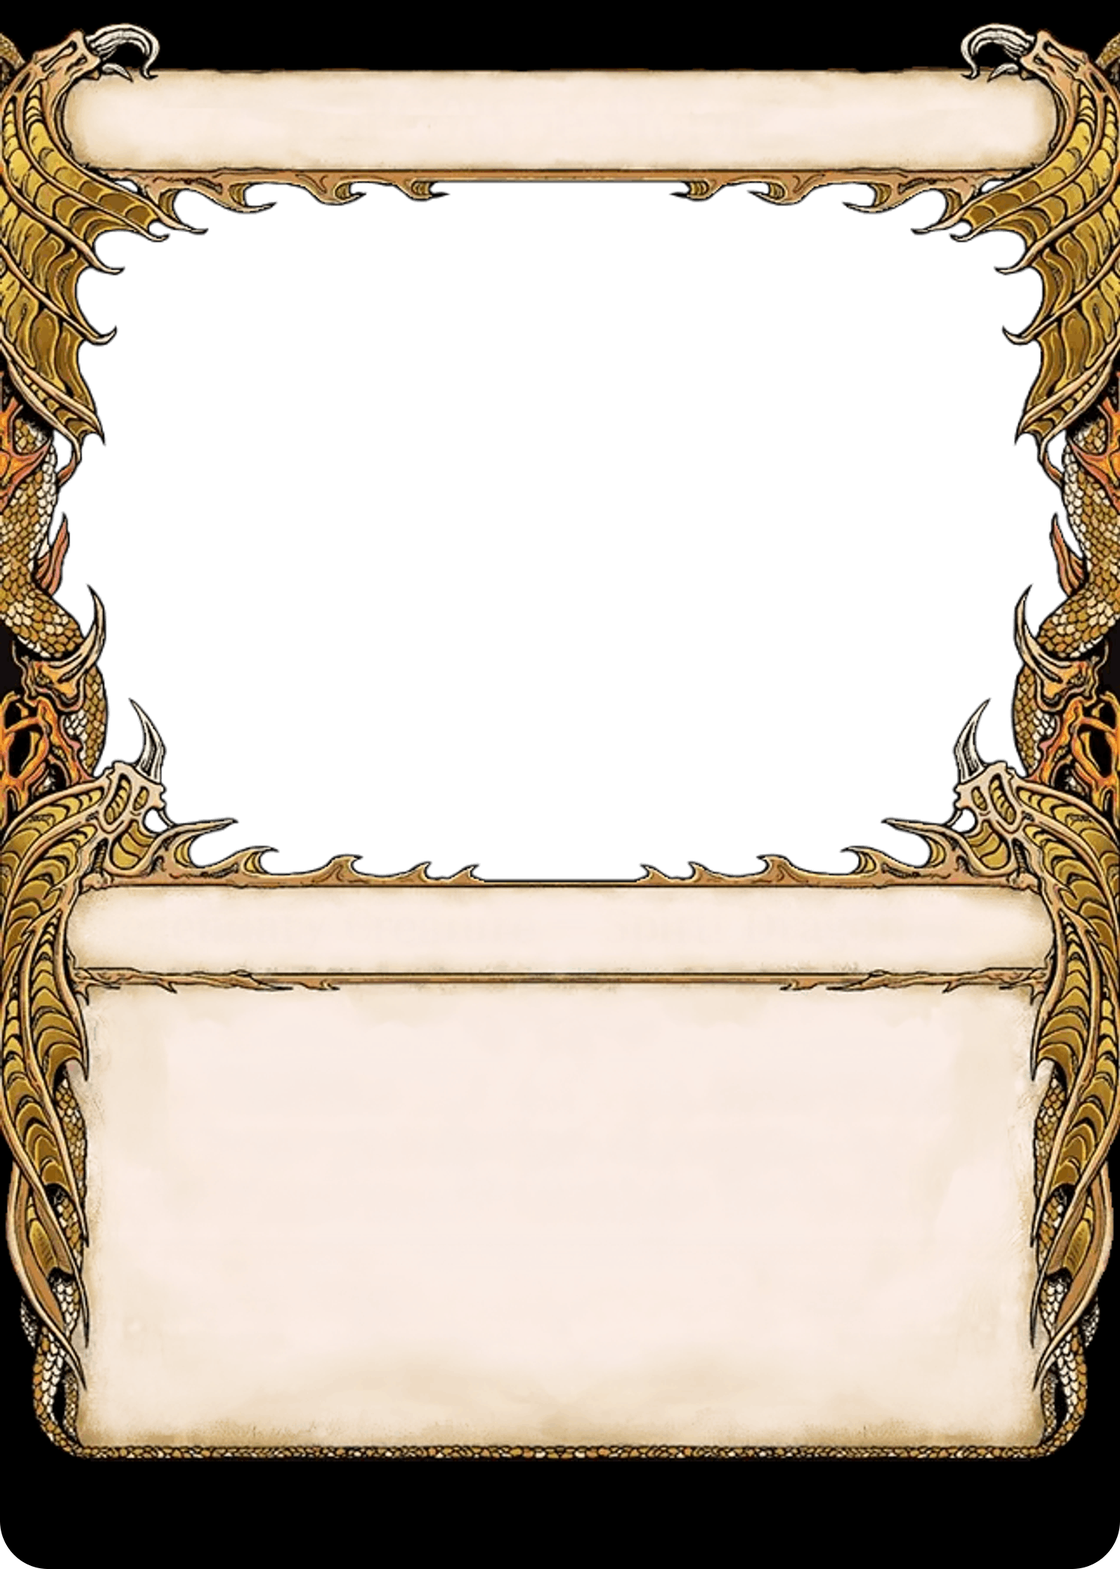
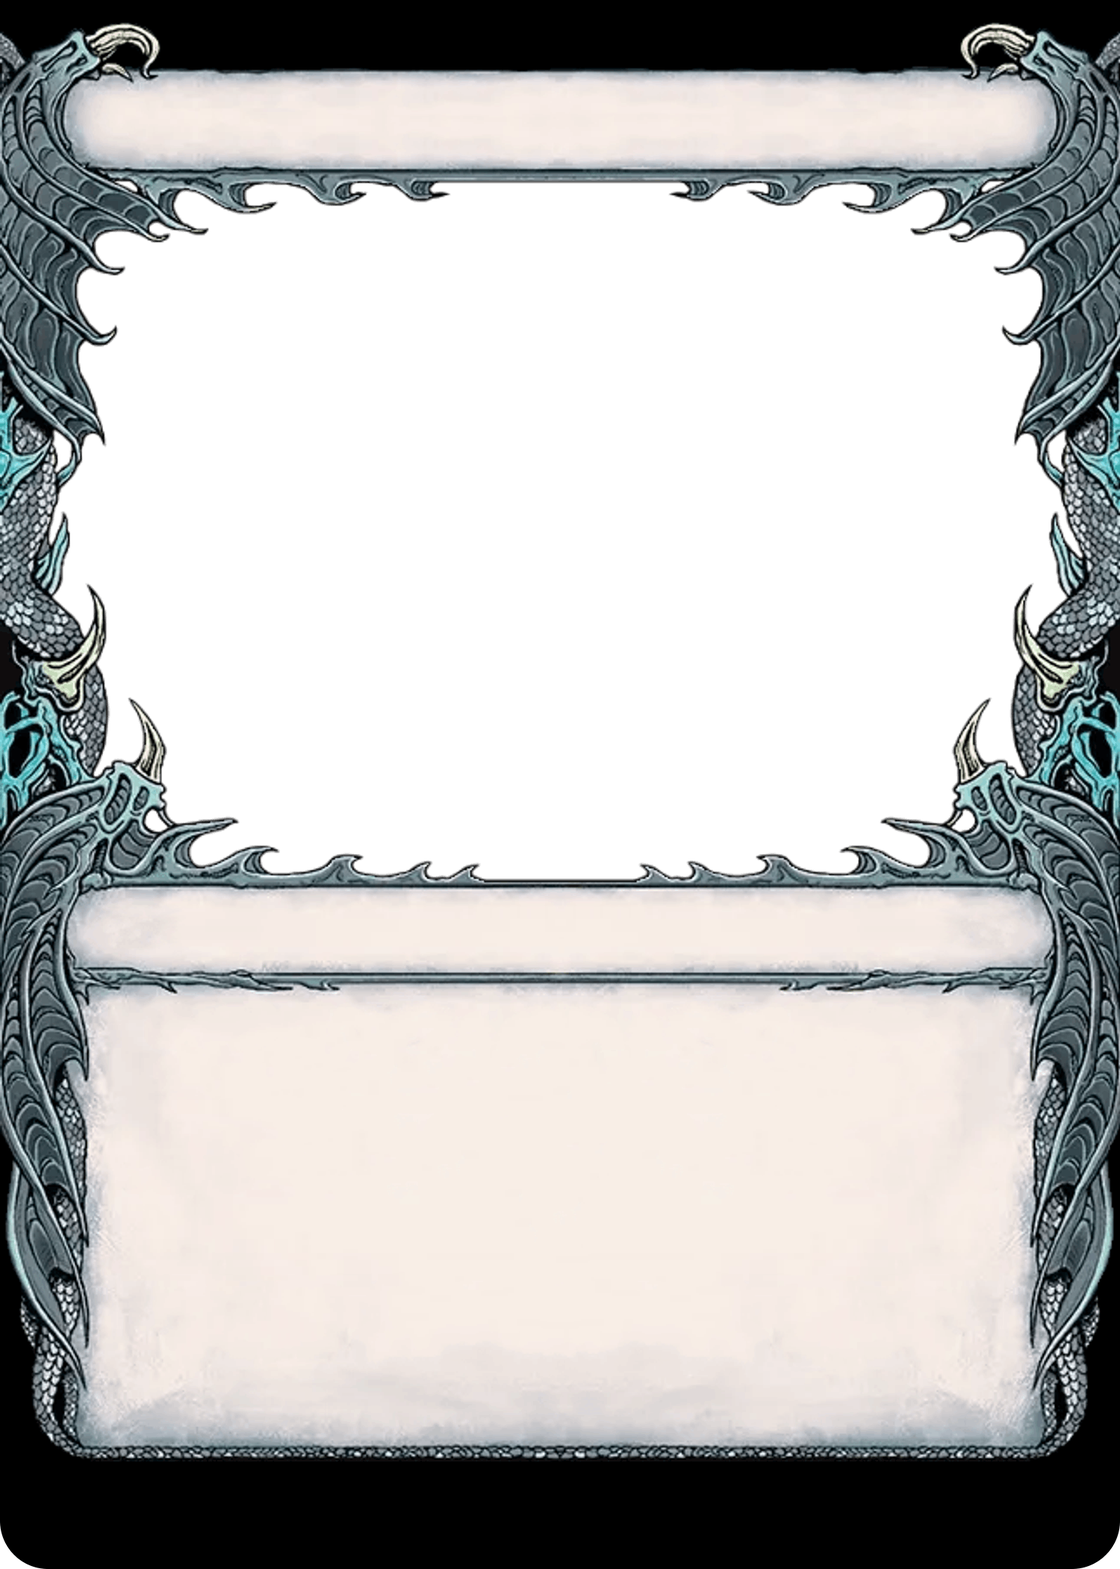
fix(frames): the draconic's colourless frame is MSE's steel drawing, plate and rim alike (layout v68)
Every colourless printing of TDM #292-326 is an artifact (#323-325, within
3 levels of MSE's steel `a`), so `c` itself is built from it — frame,
plate and stamp rim — and the `a` master and artifactMasterKeys go. TDM
#326, the gold land, is no `c` reference: it taps for any colour, and the
importer's land rule (produced_mana) reads it as the gold `m` card it is
(the reference check refuses it as "a multicolor card" on the `c` row). A
colourless non-artifact card, which no print shows, now matches its plate.

Changed region(s): [[0.0, 0.0, 1.0, 0.9286]]

diff --git a/lib/cards/template-layout.ts b/lib/cards/template-layout.ts
@@ -4700,12 +4700,11 @@ const TARKIRDRACONIC: FrameProfile = {
   label: "Draconic",
   ...CC_M15_COST,
   artSlot: TARKIRDRACONIC_ART_SLOT,
-  // A colourless ARTIFACT paints MSE's steel artifact drawing (`a`: TDM
-  // #323–325, within 3 levels of print); any other colourless card the gold
-  // one (`c`, built from MSE's `m`: the run's one colourless land, #326,
-  // prints gold) — scripts/build-showcase-frames.mjs `sourceKeys`. MSE's own
-  // brown `c` is no print's (53 levels off the steel).
-  artifactMasterKeys: { c: "a" },
+  // `c` is MSE's STEEL artifact drawing, not its brown colourless one: every
+  // colourless printing of the run is an artifact (TDM #323–325, within 3
+  // levels of print) — scripts/build-showcase-frames.mjs `sourceKeys`, the
+  // plate and the stamp rim with it. (#326, a land that taps for any colour,
+  // is a gold `m` card by the importer's land rule.)
   // The type line 2 px below the CC M15 baseline: MSE's type bar sits 2 px
   // lower than the Card Conjurer M15 master's (its outlines at 1185 / 1303
   // px — print's own, TDM #292–326 — against 1184 / 1301), and print sets
@@ -6115,9 +6114,7 @@ export const TARKIRDRACONIC_HOLO_STAMP: FrameOverlaySlot = {
   anatomy: "holoStamp",
   rect: { leftPct: (631 / 1500) * 100, topPct: (1895 / 2100) * 100, widthPct: (239 / 1500) * 100, heightPct: (65 / 2100) * 100 },
   assetPathTemplate: "/frames/tarkirdraconicholostamp/{key}.png",
-  // …and `a`, the steel artifact master's rim (a colourless artifact's
-  // overlay is keyed by its master); `c` is the gold rim (#326).
-  keys: ["w", "u", "b", "r", "g", "m", "c", "a"],
+  keys: ["w", "u", "b", "r", "g", "m", "c"],
   stamp: { shape: "oval", oval: TARKIRDRACONIC_HOLO_STAMP_OVAL, keepOut: TARKIRDRACONIC_HOLO_STAMP_KEEP_OUT },
 };
 

diff --git a/tests/unit/components/alpha-artifact-master.test.tsx b/tests/unit/components/alpha-artifact-master.test.tsx
@@ -79,9 +79,7 @@ describe("frameMasterKey — the one master rule", () => {
     // …and the Lord of the Rings scroll (TODO 4.11, layout v62): its `c` is
     // the pack's brown land frame, a colourless ARTIFACT paints its blue `a`.
     // …and the ring (layout v65), the same split.
-    // …and the Tarkir draconic (layout v68): its `c` is MSE's gold drawing
-    // (the run's colourless land), a colourless ARTIFACT paints MSE's steel `a`.
-    const DRESSED = new Set(["agclassic", "extendedart", "lotrscroll", "lotr", "tarkirdraconic", "m15dfcfront", "m15dfcback", "m15dfcbackleft", "m15mdfcfront", "m15mdfcback", "m15borderlessdfcfront", "m15borderlessdfcback", "m15borderlessmdfcfront", "m15borderlessmdfcback"]);
+    const DRESSED = new Set(["agclassic", "extendedart", "lotrscroll", "lotr", "m15dfcfront", "m15dfcback", "m15dfcbackleft", "m15mdfcfront", "m15mdfcback", "m15borderlessdfcfront", "m15borderlessdfcback", "m15borderlessmdfcfront", "m15borderlessmdfcback"]);
     for (const t of FRAME_TEMPLATE_VALUES) {
       const profile = getFrameProfile(t);
       expect(Boolean(profile.artifactMasterKeys), t).toBe(DRESSED.has(t));

diff --git a/tests/unit/render/anatomy-key-parity.test.ts b/tests/unit/render/anatomy-key-parity.test.ts
@@ -239,9 +239,9 @@ describe("bake path = preview path", () => {
     // entries (owner Round 70).
     // …and the Lord of the Rings scroll's 8 keys (4.11, the pack's own pieces),
     // the Zendikar Rising hedron showcase's 7 (4.11), the LOTR ring's 8 and
-    // the MUL Tarkir dragon wings' 7, and the Tarkir draconic's 8 (4.11,
-    // MSE's own stamp per key, the steel artifact master's `a` with them).
-    expect(notches).toBe((9 + 10) * 11 + 7 + (9 + 10) * 3 + (8 + 10) * 2 + (7 + 10) + 7 + 7 * 2 + 8 + 7 + 8 + 7 + 8);
+    // the MUL Tarkir dragon wings' 7, and the Tarkir draconic's 7 (4.11,
+    // MSE's own stamp per key; `c` the steel rim).
+    expect(notches).toBe((9 + 10) * 11 + 7 + (9 + 10) * 3 + (8 + 10) * 2 + (7 + 10) + 7 + 7 * 2 + 8 + 7 + 8 + 7 + 7);
     for (const template of [
       "m15dfcfront", "m15dfcback", "m15dfcbackleft", "m15dfclandfront", "m15dfclandback",
       "m15mdfcfront", "m15mdfcback", "m15mdfclandfront", "m15mdfclandback",

diff --git a/TODO.md b/TODO.md
@@ -2448,7 +2448,7 @@ that count.
 - [ ] **4.10e [P3] The 2021+ retro-frame reprint look as its own skin** (and, measured in 4.10a's review, Time Spiral's 2006 timeshifted redrawing — art window 10 px lower, a violet blue — which imports as `nearest` on the same `blockedBy`) — Card Conjurer's Seventh as drawn is that look in COLOUR on white, red, green, artifact and land (white ΔE 4.1 over 16 reprints of 8 sets; black and blue reprints kept the old colours), and its `c.png` is MH3's 2024 colourless frame within ΔE 2.2; in shape it is 3.6–7.6 px off the reprints, whose frame box differs by set (1931–1956 px tall). With Q1 = originals this is where a TSR / MH2 / DMR / MH3 printing lands `exact`.
 - [ ] **4.10f [P3] Collector number on the old frames (`n/N`)** — the 1997 frame prints it from Exodus, the 2003 frame always, in the © line; an opt-in addition beside the mark in the © slot (4.9's fields), never the Wizards © text.
 - [ ] **4.10g [P3] Coloured artifacts, planeswalkers and layout kinds on the old frames** — the registry rules `era/1997/coloured-artifact`, `era/2003/coloured-artifact`, `era/*/planeswalker` and `layout/older` say `blockedBy` 4.10: re-point them here. Walkers are ask-first; Card Conjurer's 1997 planeswalkers and sagas are community designs, not printings.
-- [ ] (remaining, 2026-10-22: the other contradicted profiles (avatar, bloomburrow, bloomanime, expeditionland, fullart), the LOTR scroll's two-colour dress and saga (4.5d), the LOTR ring's two-colour dress (the pack's `maskRightHalf.png`: 24 of its 60 printings), the LOTR ring's rules rect (~7 px of air above the paper's end against M15's ~13), the MUL Tarkir dragon wings' set symbol size (MUL is not in the per-set table: its ~0.73 of print's is the family's ink fit — a per-set row is a bump of its own) and P/T digits (print's are ~7 % taller and lighter), the MUL Tarkir P/T across (MUL #60's "3/4" ink sits ~4 px left of print's while #1's "2/2" is within 1 px — most likely the digits' ink asymmetry in a centred box; the box is not moved), the MUL Tarkir two-colour crown's centre bulb (a tan / blue blend is near-neutral and cannot reach print's faint purple — accepted for now), the Tarkir draconic's top (print runs a scaled serpent across the whole top edge; MSE draws black with a head in each corner — no source has print's drawing), the ghostfire's translucent boxes (print's are a darker, nearly opaque teal; a box over art has no raw median to tone by), the ghostfire's stamp (no notch piece: it sits in the ribbon's dip), per-set full-art basics and the new families. — History: partly 2026-10-27 — the Tarkir: Dragonstorm showcases on their MSE masters (layout v68, the MSE-only showcase step, PR 1 of 3): the border MSE paints at render time painted UNDER `tarkirdraconic`'s and `tarkirghostfire`'s masters (`scripts/lib/mse-showcase-borders.mjs`, the numbers as data: the draconic's see-through band joined to the card's edge, the ghostfire's ring on print's own edges (78–1420 × 80–1884 px: the inner edge's median 78.3 / 80.2 / 80.0 px over #399–408, MSE's mask 1–3 px narrow) in MSE's shape, in the border black 0,0,0, cut at the one card corner; palette PNGs without dithering, the builder refusing a border pixel the encode leaves short of opaque), the draconic on M15's slots at the family's sizes with the CC M15 cost row (70 px discs where it drew 57) and its type line 2 px under the CC M15 baseline on MSE's lower bar, its art slot on its window and the dragons' gaps (63–1453 × 239–1183), the ghostfire's own slots at the family's sizes (its type line 2 px up onto print's 1158) and its art slot inside the ring, the ghostfire's references moved to the black run #399–408 (the white #409–418 stays `nearest`, 4.30), the draconic's colourless dress as printed (a colourless artifact on MSE's steel `a` drawing, #323–325; any other colourless card on MSE's gold, #326 the colourless land — MSE's brown `c` is no print's), the ghostfire's artist credit (M15's footer: it had none), the draconic's MSE oval stamp notch and both frames' collector line as additions, both off `BORDER_PENDING_TEMPLATES` (exact once verified); docs/FRAMES.md "The Tarkir: Dragonstorm showcases". Earlier: partly 2026-10-22 — the MUL Tarkir dragon wings (layout v67): `tarkirdragon` re-sourced from Card Conjurer's 'Tarkir' pack ("Tarkir Sketch (MOM)") at its native 1500 px (the printed black border all round — 4.35's #101015 ring is gone; `c` the pack's artifact frame, its Colorless frame being absent from the tree; the pack's plates; the window and its shadow under the art slot), toned onto MUL #1 / #60 as each pack file loads by the ring's one rule (raw scan medians, a region ≥ 9 levels off is toned — `TARKIR_PRINT_TONES`): the w and u dragon wings, every master's text box (53 → 64,63,64) and the w plate's tan ends; the bars, the plate's face and the gold plate's ends are within 5 levels, as drawn; the pack's geometry kept as drawn (print is the same drawing 0.66 % taller: its top block 6 px higher, its box bottom 6 px lower, the type bar within 1 px — no flat zone for a re-cut), the M15 pack's slots measured on MUL #1 / #60 / #131 / #190 against the pack's own bars (the name and cost row 7 px up, the name 2 px and the type band 5 px left, the type band and set symbol 4.5 px up, white rules on a box ending at 1911 px, the P/T where print sets it on the plate, 1.2 px above M15's box; the stamp's oval the prints' 134 × 64), the two-colour split wings kept (`twoColorSplit`: the masters differ only on the wings), the crown band (with the ten pairs over the pack's own 41.7–61.3 %W ramp), the OVAL stamp's notch and the collector line as additions, `showcase/mul/tarkir` exact once verified and crowned on import; docs/FRAMES.md "The MUL Tarkir showcase". Earlier: partly 2026-10-22 — the ring (layout v63, showcase rebuild wave 1): `lotr` re-sourced from Card Conjurer's 'Ring' pack at its native 1500 px (the frame field to the top and side edges as 7.7's new `design` edges, the black border's shoulders cut at the one corner, the top corners kept square; `c` the land frame, `a` the artifact frame, the ring plates, the round window on the pack's artBounds), the M15 pack's slots measured on 11 LTR prints against the pack's own bars (the pack draws its title bar 12 px lower than print: the name and cost row ride it 10.4 px lower than M15's; the CC M15 cost row centred on the bar, `costDy` −2 px — the cost-row note below; the type line 2 px lower; the P/T on the plate's face), the pack's geometry KEPT AS DRAWN, known and accepted by the owner 2026-10-22 (the top block 12 px below print, the box bottom and plate 6 px above: a lossless re-cut of the top had only the title bar's cream rim as a flat zone, so the rim thickened to ~21 rows against print's 8 and the plain bar's end caps stepped — built, reviewed on the #607 sheet's zoom rows, dropped), the text-box paper (w u b r g gold) and the r / g frame field toned onto print as each pack file loads (`RING_PRINT_TONES`), the crown band, the triangle stamp's notch and the collector line as additions, `showcase/ltr/ring` exact once verified (two-colour printings nearest); docs/FRAMES.md "The Lord of the Rings ring". Earlier: partly 2026-10-22 — #604 (layout v62, showcase rebuild wave 1): `lotrscroll` re-sourced from Card Conjurer's 'Scroll' pack (the masters with the printed black border, `c` the land frame, `a` the artifact frame, the scroll plates), the M15 pack's slots measured on 14 LTR / LTC prints (the CC M15 cost row: 70 px discs, 78 pitch, the row ending at 1385 — the cost-row note below; the name 4 px left of M15's), the crown band, the triangle stamp's notch and the collector line as additions, `showcase/ltr/scroll` exact once verified (two-colour printings nearest: the pack's 'Multicolored Bars' dress is the follow-up); docs/FRAMES.md "The Lord of the Rings scroll". Earlier: partly 2026-09-26 — #381, #382, #386: of the 12 contradicted profiles, tarkirdragon re-measured on MUL #1/#60 with its own P/T plate (#381), tarkirghostfire rebuilt with translucent boxes + P/T ribbon (#382), tarkirdraconic's white-on-parchment P/T on MSE's serpent-ringed plates in black ink (4.31, #386); remaining: the other 9 profiles (lotr, lotrscroll, avatar, bloomburrow, bloomanime, expeditionland, fullart, m15textless ×2), per-set full-art basics and the new families) **4.11 [P1] Showcase families from MSE (744–750 px)**, in request-log
+- [ ] (remaining, 2026-10-22: the other contradicted profiles (avatar, bloomburrow, bloomanime, expeditionland, fullart), the LOTR scroll's two-colour dress and saga (4.5d), the LOTR ring's two-colour dress (the pack's `maskRightHalf.png`: 24 of its 60 printings), the LOTR ring's rules rect (~7 px of air above the paper's end against M15's ~13), the MUL Tarkir dragon wings' set symbol size (MUL is not in the per-set table: its ~0.73 of print's is the family's ink fit — a per-set row is a bump of its own) and P/T digits (print's are ~7 % taller and lighter), the MUL Tarkir P/T across (MUL #60's "3/4" ink sits ~4 px left of print's while #1's "2/2" is within 1 px — most likely the digits' ink asymmetry in a centred box; the box is not moved), the MUL Tarkir two-colour crown's centre bulb (a tan / blue blend is near-neutral and cannot reach print's faint purple — accepted for now), the Tarkir draconic's top (print runs a scaled serpent across the whole top edge; MSE draws black with a head in each corner — no source has print's drawing), the ghostfire's translucent boxes (print's are a darker, nearly opaque teal; a box over art has no raw median to tone by), the ghostfire's stamp (no notch piece: it sits in the ribbon's dip), per-set full-art basics and the new families. — History: partly 2026-10-27 — the Tarkir: Dragonstorm showcases on their MSE masters (layout v68, the MSE-only showcase step, PR 1 of 3): the border MSE paints at render time painted UNDER `tarkirdraconic`'s and `tarkirghostfire`'s masters (`scripts/lib/mse-showcase-borders.mjs`, the numbers as data: the draconic's see-through band joined to the card's edge, the ghostfire's ring on print's own edges (78–1420 × 80–1884 px: the inner edge's median 78.3 / 80.2 / 80.0 px over #399–408, MSE's mask 1–3 px narrow) in MSE's shape, in the border black 0,0,0, cut at the one card corner; palette PNGs without dithering, the builder refusing a border pixel the encode leaves short of opaque), the draconic on M15's slots at the family's sizes with the CC M15 cost row (70 px discs where it drew 57) and its type line 2 px under the CC M15 baseline on MSE's lower bar, its art slot on its window and the dragons' gaps (63–1453 × 239–1183), the ghostfire's own slots at the family's sizes (its type line 2 px up onto print's 1158) and its art slot inside the ring, the ghostfire's references moved to the black run #399–408 (the white #409–418 stays `nearest`, 4.30), the draconic's colourless dress as printed (`c` = MSE's steel artifact drawing, plate and stamp rim: every colourless printing of the run is an artifact, #323–325, within 3 levels; MSE's brown `c` is no print's; #326, a land tapping for any colour, is a gold `m` card by the importer's land rule), the ghostfire's artist credit (M15's footer: it had none), the draconic's MSE oval stamp notch and both frames' collector line as additions, both off `BORDER_PENDING_TEMPLATES` (exact once verified); docs/FRAMES.md "The Tarkir: Dragonstorm showcases". Earlier: partly 2026-10-22 — the MUL Tarkir dragon wings (layout v67): `tarkirdragon` re-sourced from Card Conjurer's 'Tarkir' pack ("Tarkir Sketch (MOM)") at its native 1500 px (the printed black border all round — 4.35's #101015 ring is gone; `c` the pack's artifact frame, its Colorless frame being absent from the tree; the pack's plates; the window and its shadow under the art slot), toned onto MUL #1 / #60 as each pack file loads by the ring's one rule (raw scan medians, a region ≥ 9 levels off is toned — `TARKIR_PRINT_TONES`): the w and u dragon wings, every master's text box (53 → 64,63,64) and the w plate's tan ends; the bars, the plate's face and the gold plate's ends are within 5 levels, as drawn; the pack's geometry kept as drawn (print is the same drawing 0.66 % taller: its top block 6 px higher, its box bottom 6 px lower, the type bar within 1 px — no flat zone for a re-cut), the M15 pack's slots measured on MUL #1 / #60 / #131 / #190 against the pack's own bars (the name and cost row 7 px up, the name 2 px and the type band 5 px left, the type band and set symbol 4.5 px up, white rules on a box ending at 1911 px, the P/T where print sets it on the plate, 1.2 px above M15's box; the stamp's oval the prints' 134 × 64), the two-colour split wings kept (`twoColorSplit`: the masters differ only on the wings), the crown band (with the ten pairs over the pack's own 41.7–61.3 %W ramp), the OVAL stamp's notch and the collector line as additions, `showcase/mul/tarkir` exact once verified and crowned on import; docs/FRAMES.md "The MUL Tarkir showcase". Earlier: partly 2026-10-22 — the ring (layout v63, showcase rebuild wave 1): `lotr` re-sourced from Card Conjurer's 'Ring' pack at its native 1500 px (the frame field to the top and side edges as 7.7's new `design` edges, the black border's shoulders cut at the one corner, the top corners kept square; `c` the land frame, `a` the artifact frame, the ring plates, the round window on the pack's artBounds), the M15 pack's slots measured on 11 LTR prints against the pack's own bars (the pack draws its title bar 12 px lower than print: the name and cost row ride it 10.4 px lower than M15's; the CC M15 cost row centred on the bar, `costDy` −2 px — the cost-row note below; the type line 2 px lower; the P/T on the plate's face), the pack's geometry KEPT AS DRAWN, known and accepted by the owner 2026-10-22 (the top block 12 px below print, the box bottom and plate 6 px above: a lossless re-cut of the top had only the title bar's cream rim as a flat zone, so the rim thickened to ~21 rows against print's 8 and the plain bar's end caps stepped — built, reviewed on the #607 sheet's zoom rows, dropped), the text-box paper (w u b r g gold) and the r / g frame field toned onto print as each pack file loads (`RING_PRINT_TONES`), the crown band, the triangle stamp's notch and the collector line as additions, `showcase/ltr/ring` exact once verified (two-colour printings nearest); docs/FRAMES.md "The Lord of the Rings ring". Earlier: partly 2026-10-22 — #604 (layout v62, showcase rebuild wave 1): `lotrscroll` re-sourced from Card Conjurer's 'Scroll' pack (the masters with the printed black border, `c` the land frame, `a` the artifact frame, the scroll plates), the M15 pack's slots measured on 14 LTR / LTC prints (the CC M15 cost row: 70 px discs, 78 pitch, the row ending at 1385 — the cost-row note below; the name 4 px left of M15's), the crown band, the triangle stamp's notch and the collector line as additions, `showcase/ltr/scroll` exact once verified (two-colour printings nearest: the pack's 'Multicolored Bars' dress is the follow-up); docs/FRAMES.md "The Lord of the Rings scroll". Earlier: partly 2026-09-26 — #381, #382, #386: of the 12 contradicted profiles, tarkirdragon re-measured on MUL #1/#60 with its own P/T plate (#381), tarkirghostfire rebuilt with translucent boxes + P/T ribbon (#382), tarkirdraconic's white-on-parchment P/T on MSE's serpent-ringed plates in black ink (4.31, #386); remaining: the other 9 profiles (lotr, lotrscroll, avatar, bloomburrow, bloomanime, expeditionland, fullart, m15textless ×2), per-set full-art basics and the new families) **4.11 [P1] Showcase families from MSE (744–750 px)**, in request-log
       order — re-measure the 12 contradicted profiles from scans (lotr,
       lotrscroll, avatar, bloomburrow, bloomanime, tarkir ×3, expeditionland,
       fullart, m15textless ×2), then per-set full-art basics and the

diff --git a/docs/FRAMES.md b/docs/FRAMES.md
@@ -5062,23 +5062,19 @@ bakes of the same cards; sheet: the owner's design-backup
 - **Draconic colourless.** MSE's own `c` is a BROWN drawing no print
   wears (its dragons 116,71,47 against the colourless prints' steel
   78,94,100 — 53 levels off; no tone carries a hue change across a
-  textured frame). The run prints two colourless dresses and MSE draws
-  both, so each is built from its own MSE file (`sourceKeys` in the
-  builder; raw scan medians against the file over the same pixels):
-  - a colourless ARTIFACT (#323 Boulderborn Dragon, #324 Dragonfire Blade,
-    #325 Mox Jasper — the `c` reference) paints MSE's steel `acard.png` as
-    the master `a` (`artifactMasterKeys` { c: "a" }): dragons 78,94,99
-    against print's 75,91,97, text box 248,238,230 on both, title bar 3
-    levels off;
-  - any other colourless card paints `c` = MSE's GOLD `mcard.png`: the
-    run's one colourless non-artifact, #326 Maelstrom of the Spirit Dragon
-    (a land), prints the gold frame — dragons 140,104,51 against 139,101,46,
-    paper and bars within 5.
-  Every region is within 9 levels, so nothing is toned and `c` needs no
-  cap. The plate follows the colour key and the only colourless card with
-  a P/T is an artifact (#323): `c`'s plate is the steel `a`'s. The stamp
-  notch follows the master drawn: `a` the steel rim, `c` the gold (#326 is
-  a stamped rare).
+  textured frame). Every colourless printing of the run is an ARTIFACT
+  (#323 Boulderborn Dragon, #324 Dragonfire Blade, #325 Mox Jasper — the
+  `c` reference) and wears MSE's STEEL drawing, so `c` is built from
+  `acard.png` (`sourceKeys` in the builder; raw scan medians against the
+  file over the same pixels: dragons 78,94,99 against print's 75,91,97,
+  text box 248,238,230 on both, title bar 3 levels off — nothing is
+  toned, `c` needs no cap), with the steel plate (`apt.png`) and the steel
+  stamp rim. A colourless non-artifact card has no print on the frame; it
+  takes the same steel `c`, plate and rim alike. #326 Maelstrom of the
+  Spirit Dragon is no colourless reference: a land that taps for any
+  colour prints GOLD, and the importer's land rule (`produced_mana`) reads
+  it as the gold `m` card it is — MSE's gold matches it (dragons
+  140,104,51 against 139,101,46).
 - **Ghostfire slots: its own, at the family's sizes.** Its bars are not
   M15's (the type bar at 51–57 %H), so the profile keeps its print-measured
   rects, with the family's name and type sizes (`fit: "measured"`, each
